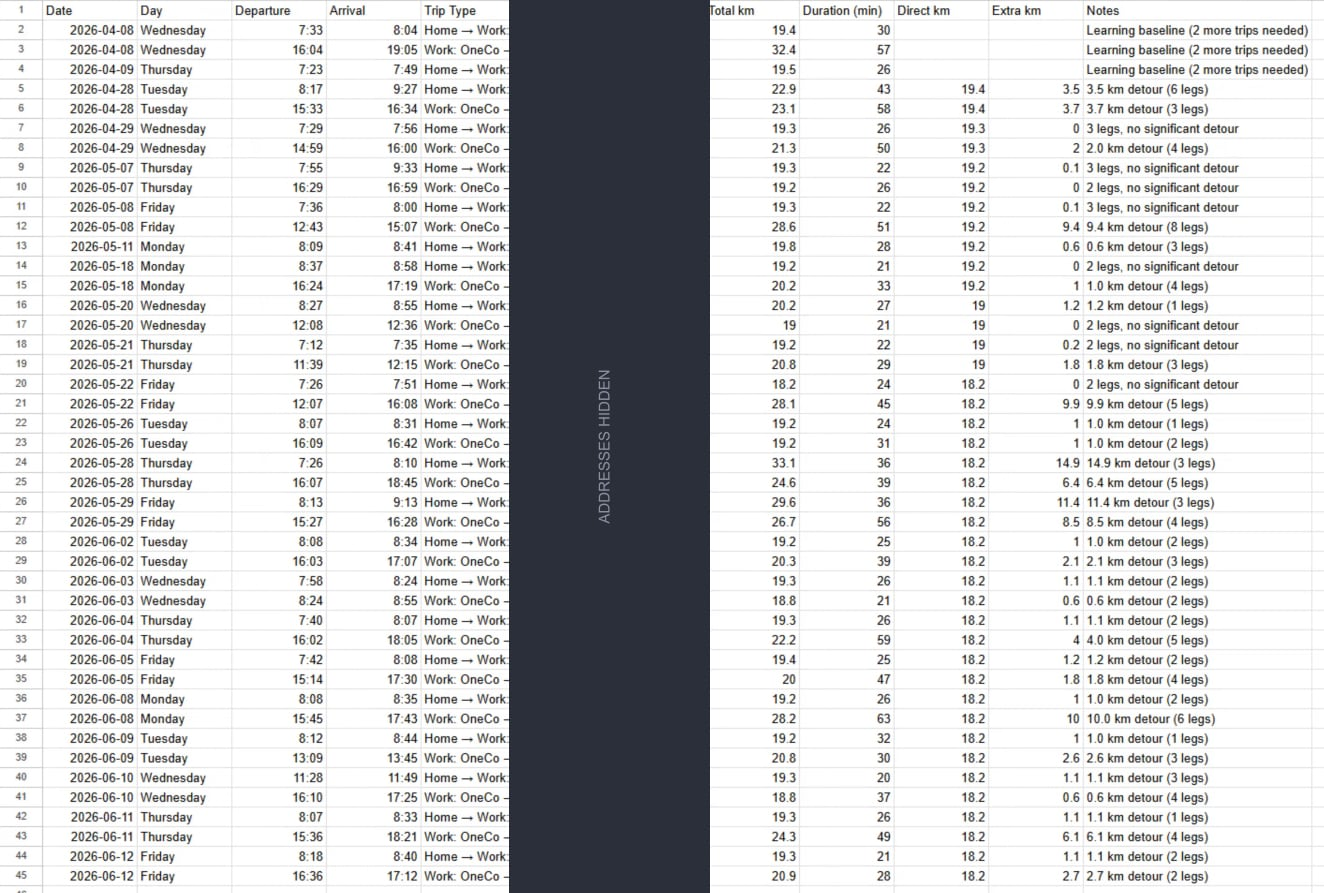
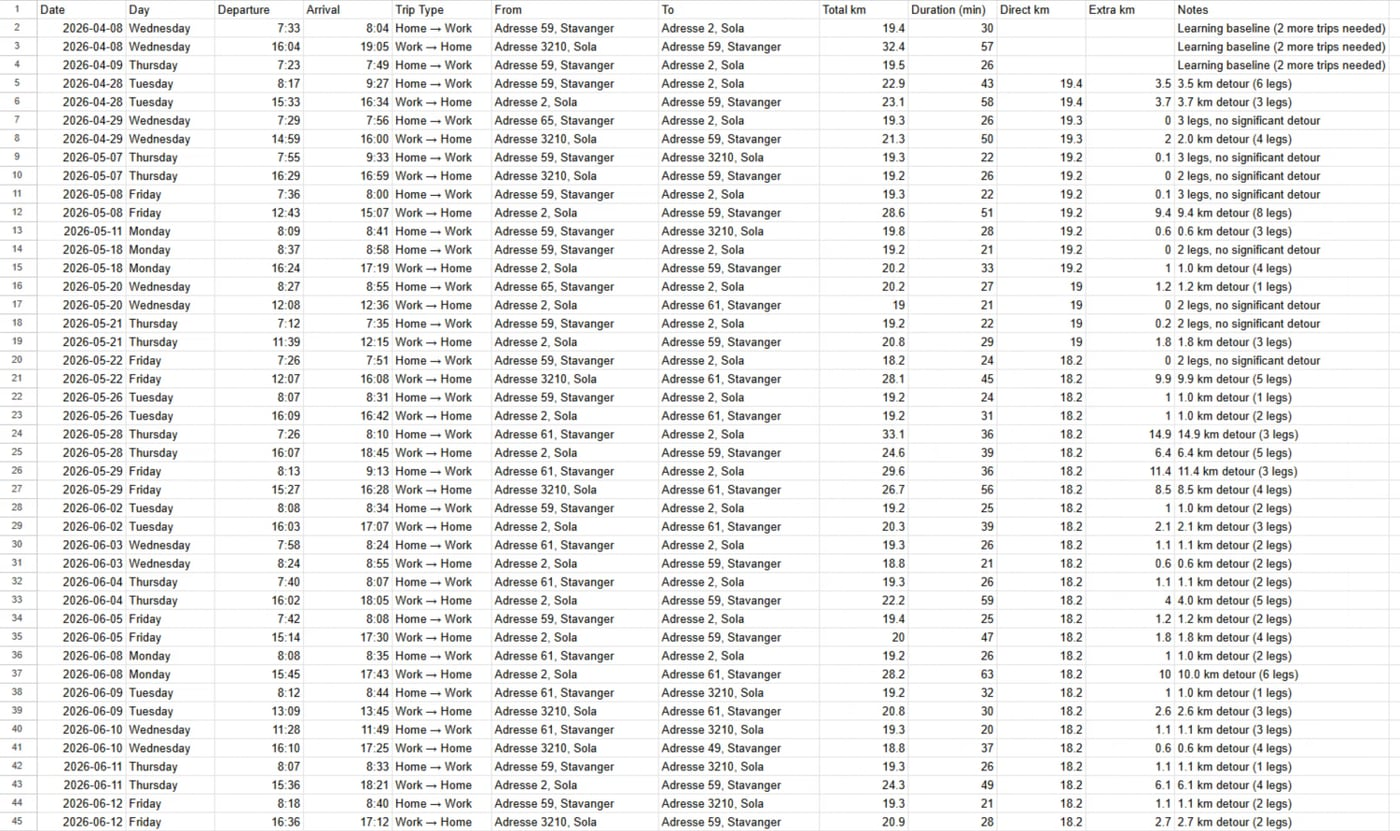
fix(portfolio): use anonymized vehicle-telemetry screenshot (drop redaction)
Replace the address-redacted sheet with an anonymized one ("Adresse N"
placeholders) — full From/To columns can now show. Bump cache ?v=2.

diff --git a/index.html b/index.html
@@ -182,7 +182,7 @@
                         <span class="ai-card-cta"><span data-en="View details" data-no="Se detaljer">View details</span> →</span>
                     </div>
                     <div class="ai-card ai-card--modal" role="button" tabindex="0"
-                         data-shot="images/projects/vehicle.jpg?v=1" data-private="1">
+                         data-shot="images/projects/vehicle.jpg?v=2" data-private="1">
                         <span class="ai-badge" data-en="Private" data-no="Privat">Private</span>
                         <div class="ai-card-icon">
                             <svg viewBox="0 0 24 24" fill="none" stroke="currentColor" stroke-width="2"><path d="M5 17h14M5 17l2-6h10l2 6M5 17v3h3v-3M16 17v3h3v-3"/><circle cx="8" cy="14" r="1"/><circle cx="16" cy="14" r="1"/></svg>
